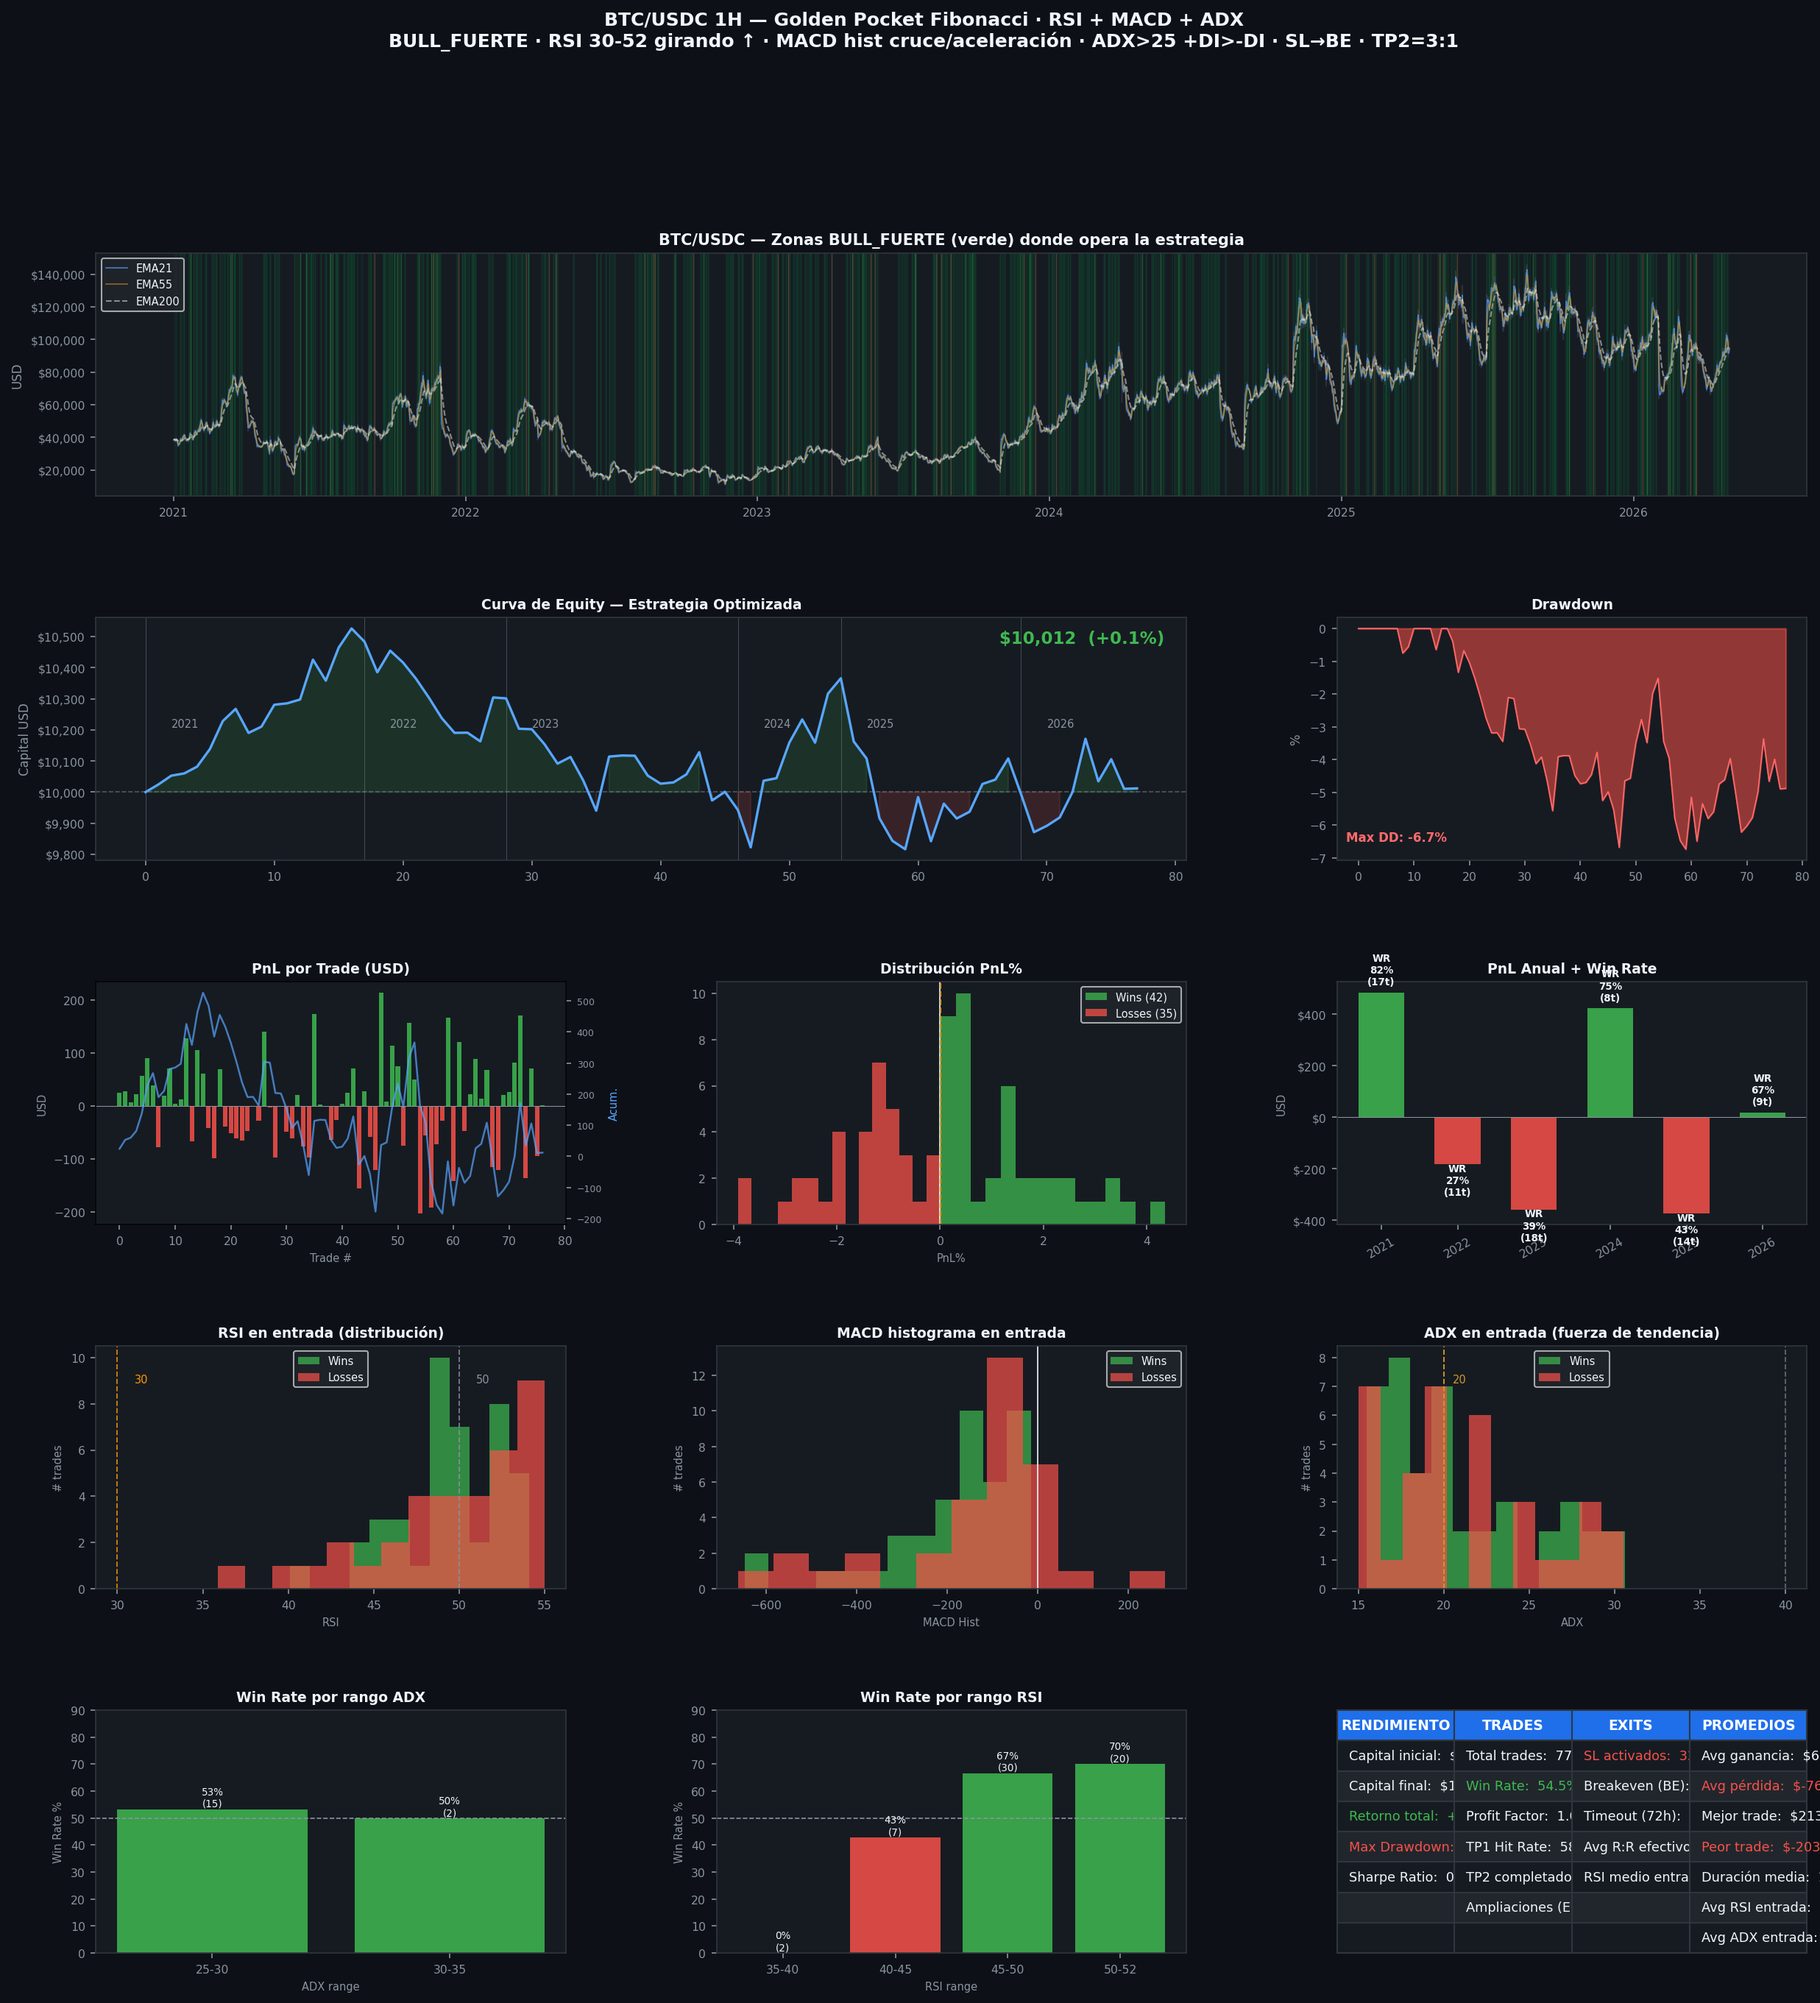
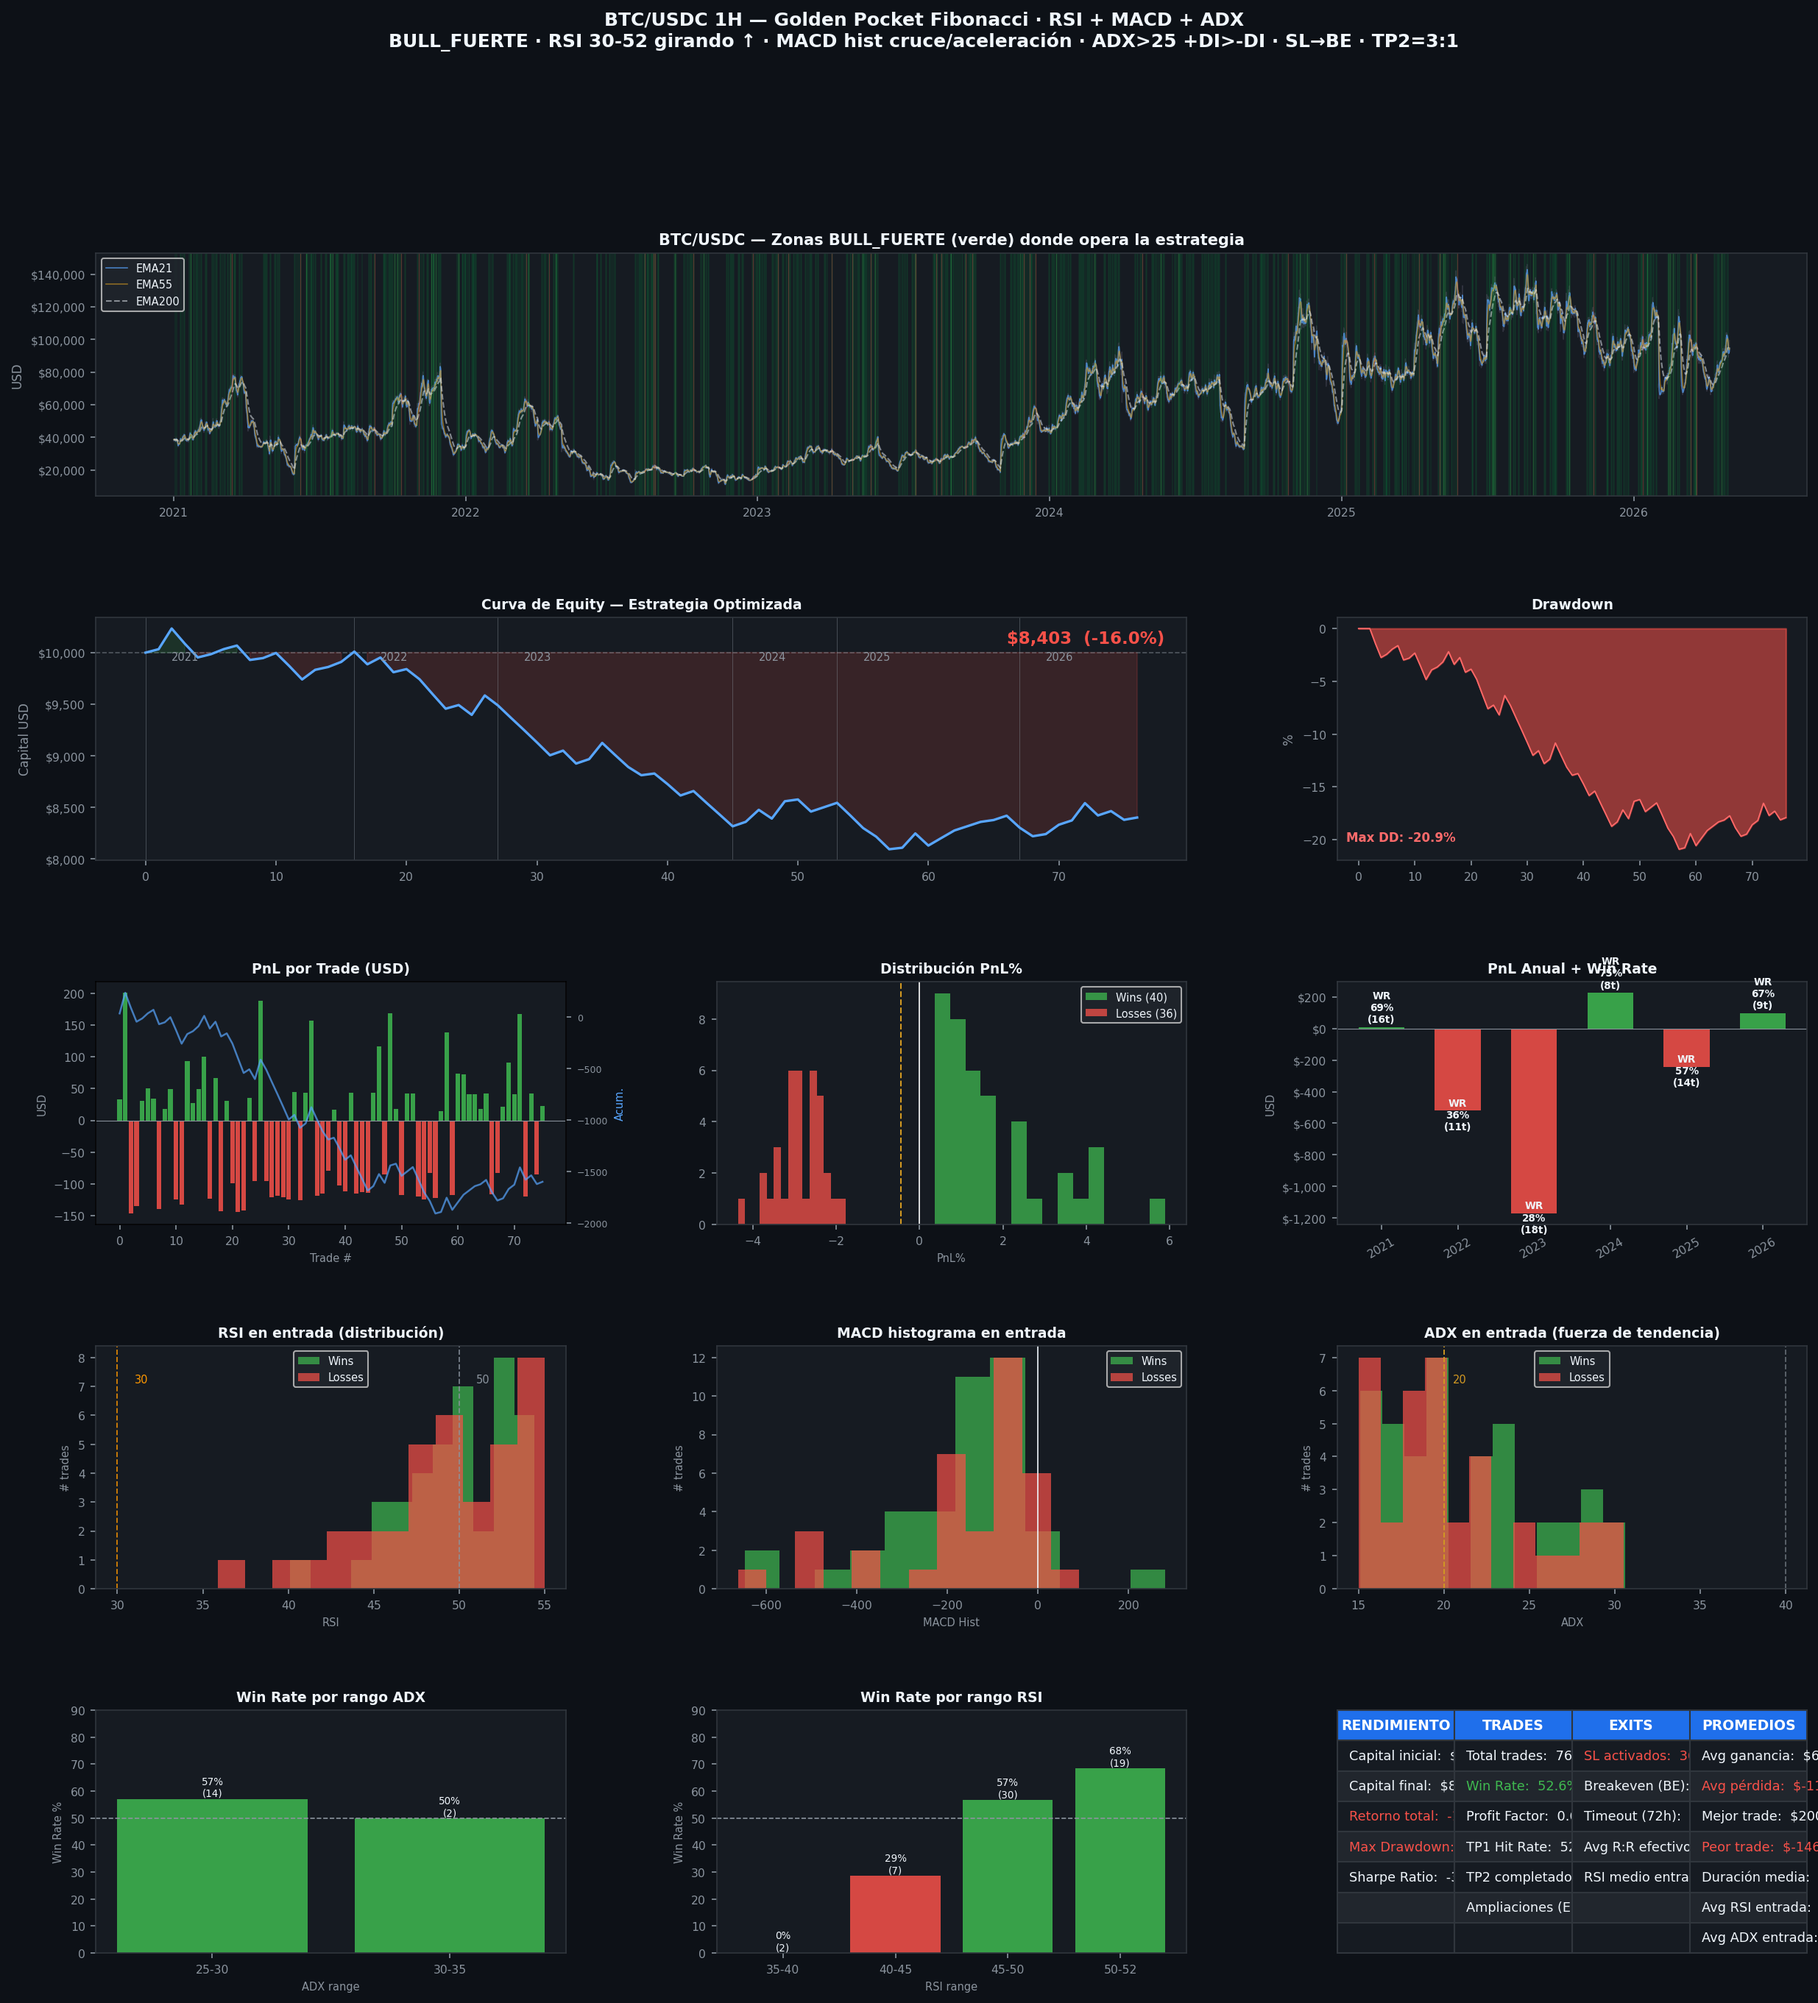
feat: ajuste de posición y SL/TP por ATR (1.5×ATR)
- Nuevo parámetro ATR_SL_MULT = 1.5
- SL dinámico: precio_entrada − 1.5×ATR (se adapta a volatilidad)
- Tamaño de posición: riesgo_fijo / distancia_ATR (menor pos. en mercados volátiles)
- TP1/TP2 calculados desde distancia ATR (1:1 y 3:1)
- Respaldo Fibonacci si ATR no disponible

Resultados: retorno −16% vs +0.1% con Fibonacci — ATR_SL_MULT
demasiado amplio para BTC 1H, requiere calibración.

https://claude.ai/code/session_0138DRHLuzTypiJY9gD4Uzzp

diff --git a/btc_optimized_strategy.py b/btc_optimized_strategy.py
@@ -51,7 +51,8 @@ MACD_SIGNAL        = 9
 ADX_PERIOD         = 14
 ADX_MIN            = 20          # ADX > 20 → tendencia moderada/fuerte
 VOL_MA_PERIOD      = 20
-SL_LEVEL           = 0.786       # SL estructural en 78.6% del impulso
+ATR_SL_MULT        = 1.5         # SL a 1.5 × ATR por debajo de la entrada
+SL_LEVEL           = 0.786       # SL Fibonacci de respaldo (si ATR no disponible)
 SCALE_IN_LEVEL     = 0.650       # ampliación al 65% (profundiza desde 61.8%)
 SCALE_IN_FACTOR    = 0.50        # 0.5 contratos adicionales (50% de la posición inicial)
 MIN_CANDLES_ENTRE  = 12
@@ -340,6 +341,7 @@ def backtest_optimizado(df, impulsos):
     pdi  = df["plus_di"].values
     mdi  = df["minus_di"].values
     vm20 = df["vol_ma20"].values
+    atr_ = df["atr"].values
 
     ultimo_salida = -MIN_CANDLES_ENTRE
     trade_activo  = False
@@ -411,10 +413,28 @@ def backtest_optimizado(df, impulsos):
             continue
 
         # ── E1: entrada principal en 61.8% GP ────────────────────────────
-        precio_e1   = cl[entrada_idx]
-        riesgo_usd  = capital * RISK_PCT
-        tam_pos_usd = min(riesgo_usd / SL_NIVEL_PCT, capital * 0.5)
-        btc_e1      = tam_pos_usd / precio_e1
+        precio_e1  = cl[entrada_idx]
+        riesgo_usd = capital * RISK_PCT
+
+        # SL basado en ATR: 1.5 × ATR por debajo de la entrada
+        atr_val    = atr_[entrada_idx]
+        if np.isnan(atr_val) or atr_val <= 0:
+            atr_val = f["gp_lo"] - f["sl"]   # respaldo Fibonacci si ATR no disponible
+        sl_dist    = ATR_SL_MULT * atr_val
+        sl_atr     = precio_e1 - sl_dist
+
+        # Tamaño de posición: riesgo fijo / distancia ATR
+        btc_e1      = riesgo_usd / sl_dist
+        tam_pos_usd = btc_e1 * precio_e1
+        # Cap: no más del 50% del capital en una posición
+        if tam_pos_usd > capital * 0.5:
+            tam_pos_usd = capital * 0.5
+            btc_e1      = tam_pos_usd / precio_e1
+            sl_dist     = riesgo_usd / btc_e1   # recalcular distancia real
+
+        # TPs a 1:1 y 3:1 desde la distancia ATR
+        tp1_price = precio_e1 + sl_dist * TP1_RR
+        tp2_price = precio_e1 + sl_dist * TP2_RR
 
         # Variables de ampliación de posición (E2 en 65%)
         scale_hit   = False
@@ -425,16 +445,12 @@ def backtest_optimizado(df, impulsos):
         btc_total   = btc_e1
         avg_entry   = precio_e1
 
-        # TP1/TP2 calculados desde E1; se recalculan tras la ampliación
-        tp1_price   = f["tp1"]
-        tp2_price   = f["tp2"]
-
         resultado     = "TIMEOUT"
         precio_salida = None
         salida_idx    = None
         tp1_hit       = False
         btc_rem       = btc_total
-        sl_dinamico   = f["sl"]   # SL estructural en 78.6%
+        sl_dinamico   = sl_atr   # SL dinámico basado en ATR
 
         trade_activo  = True
 
